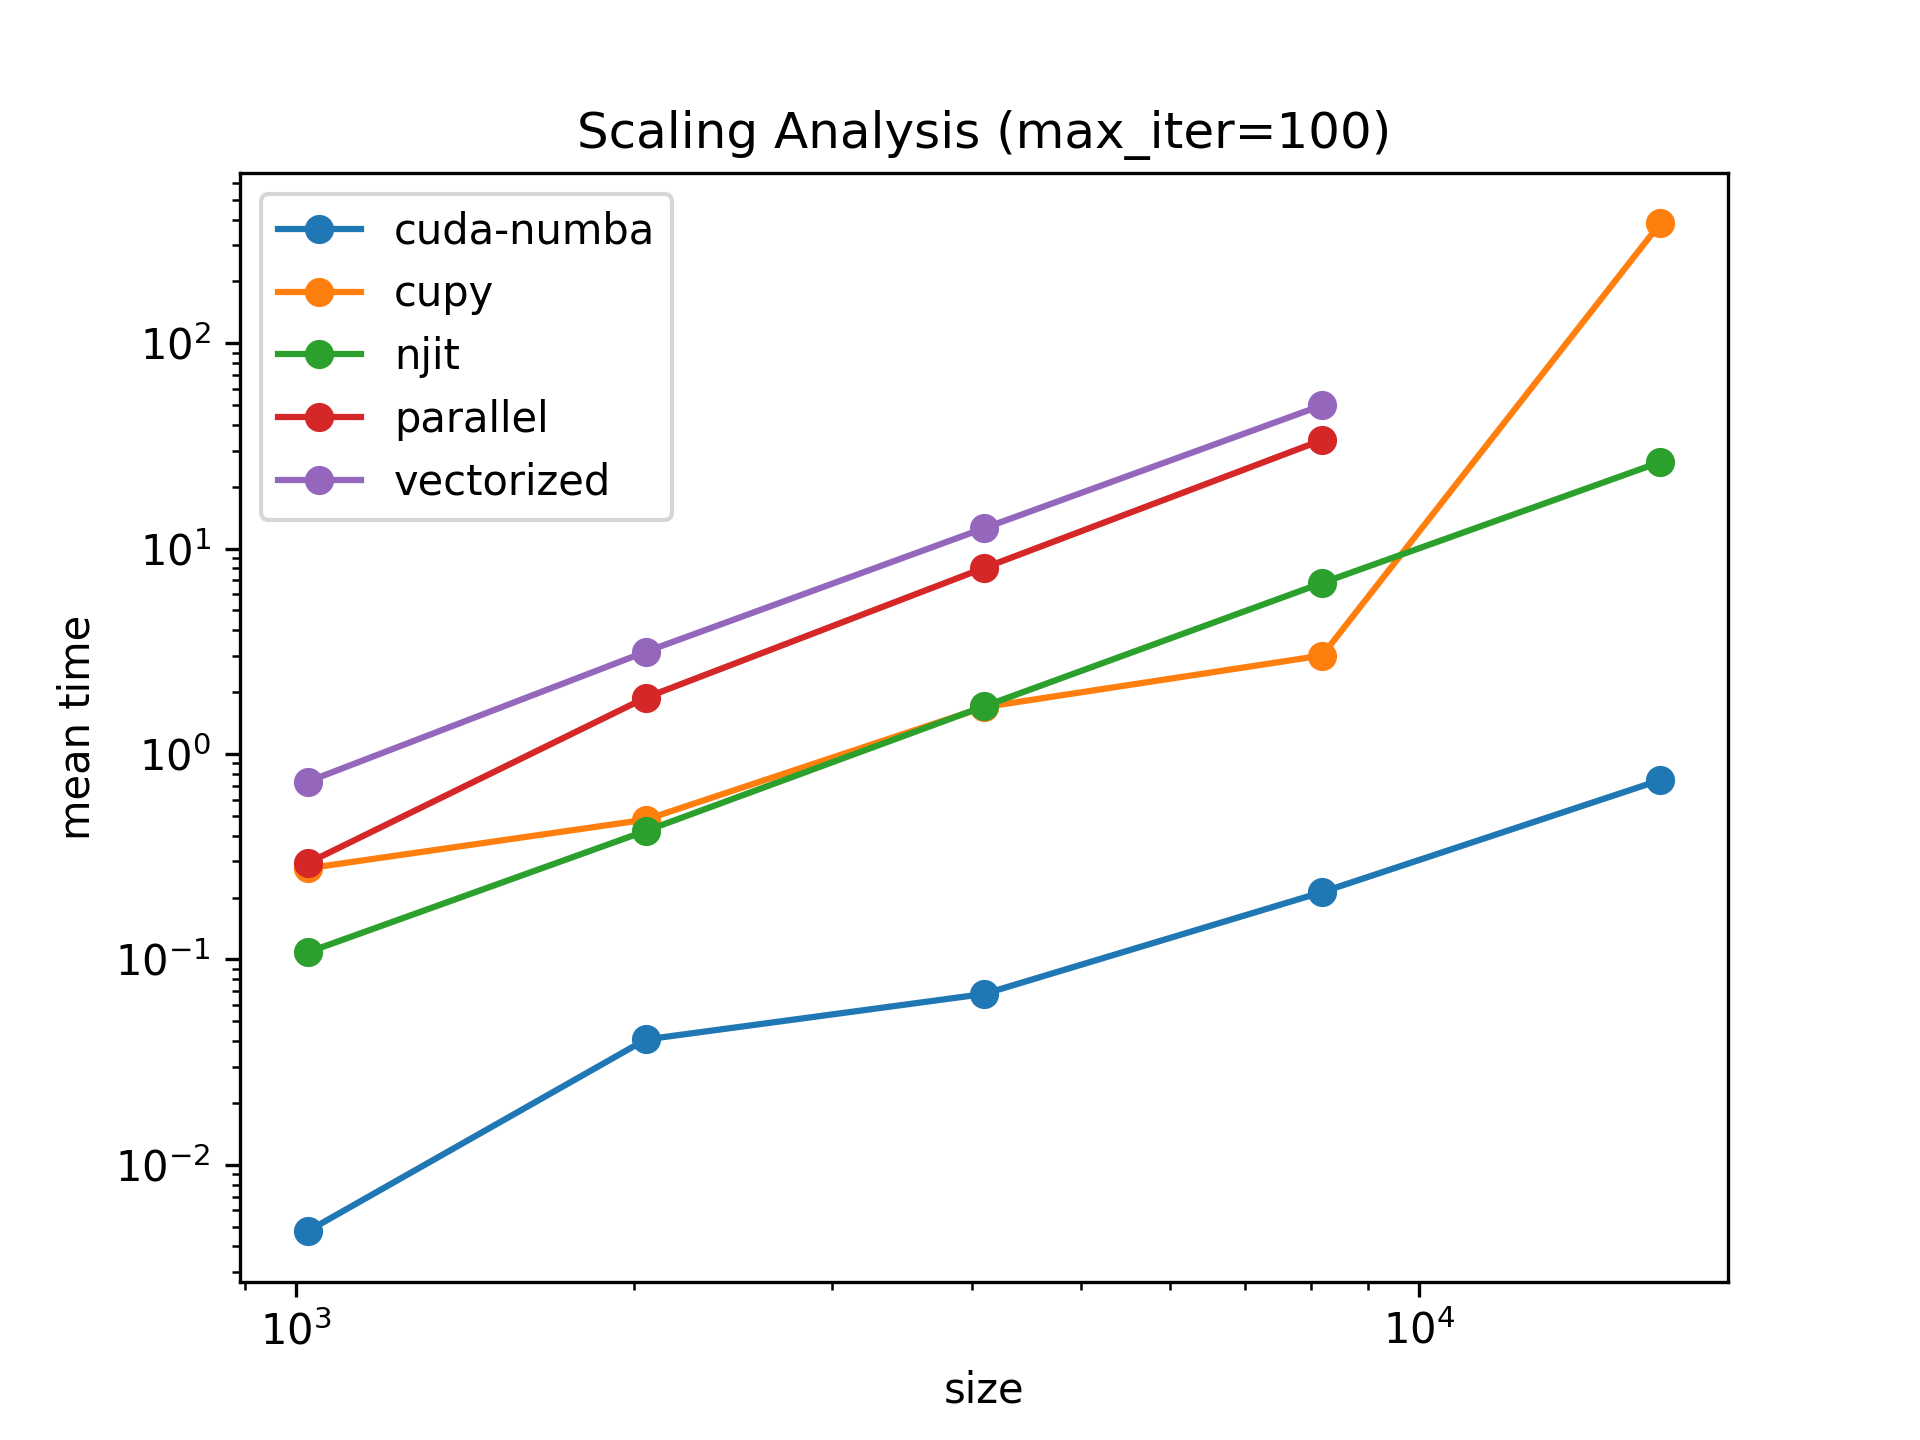
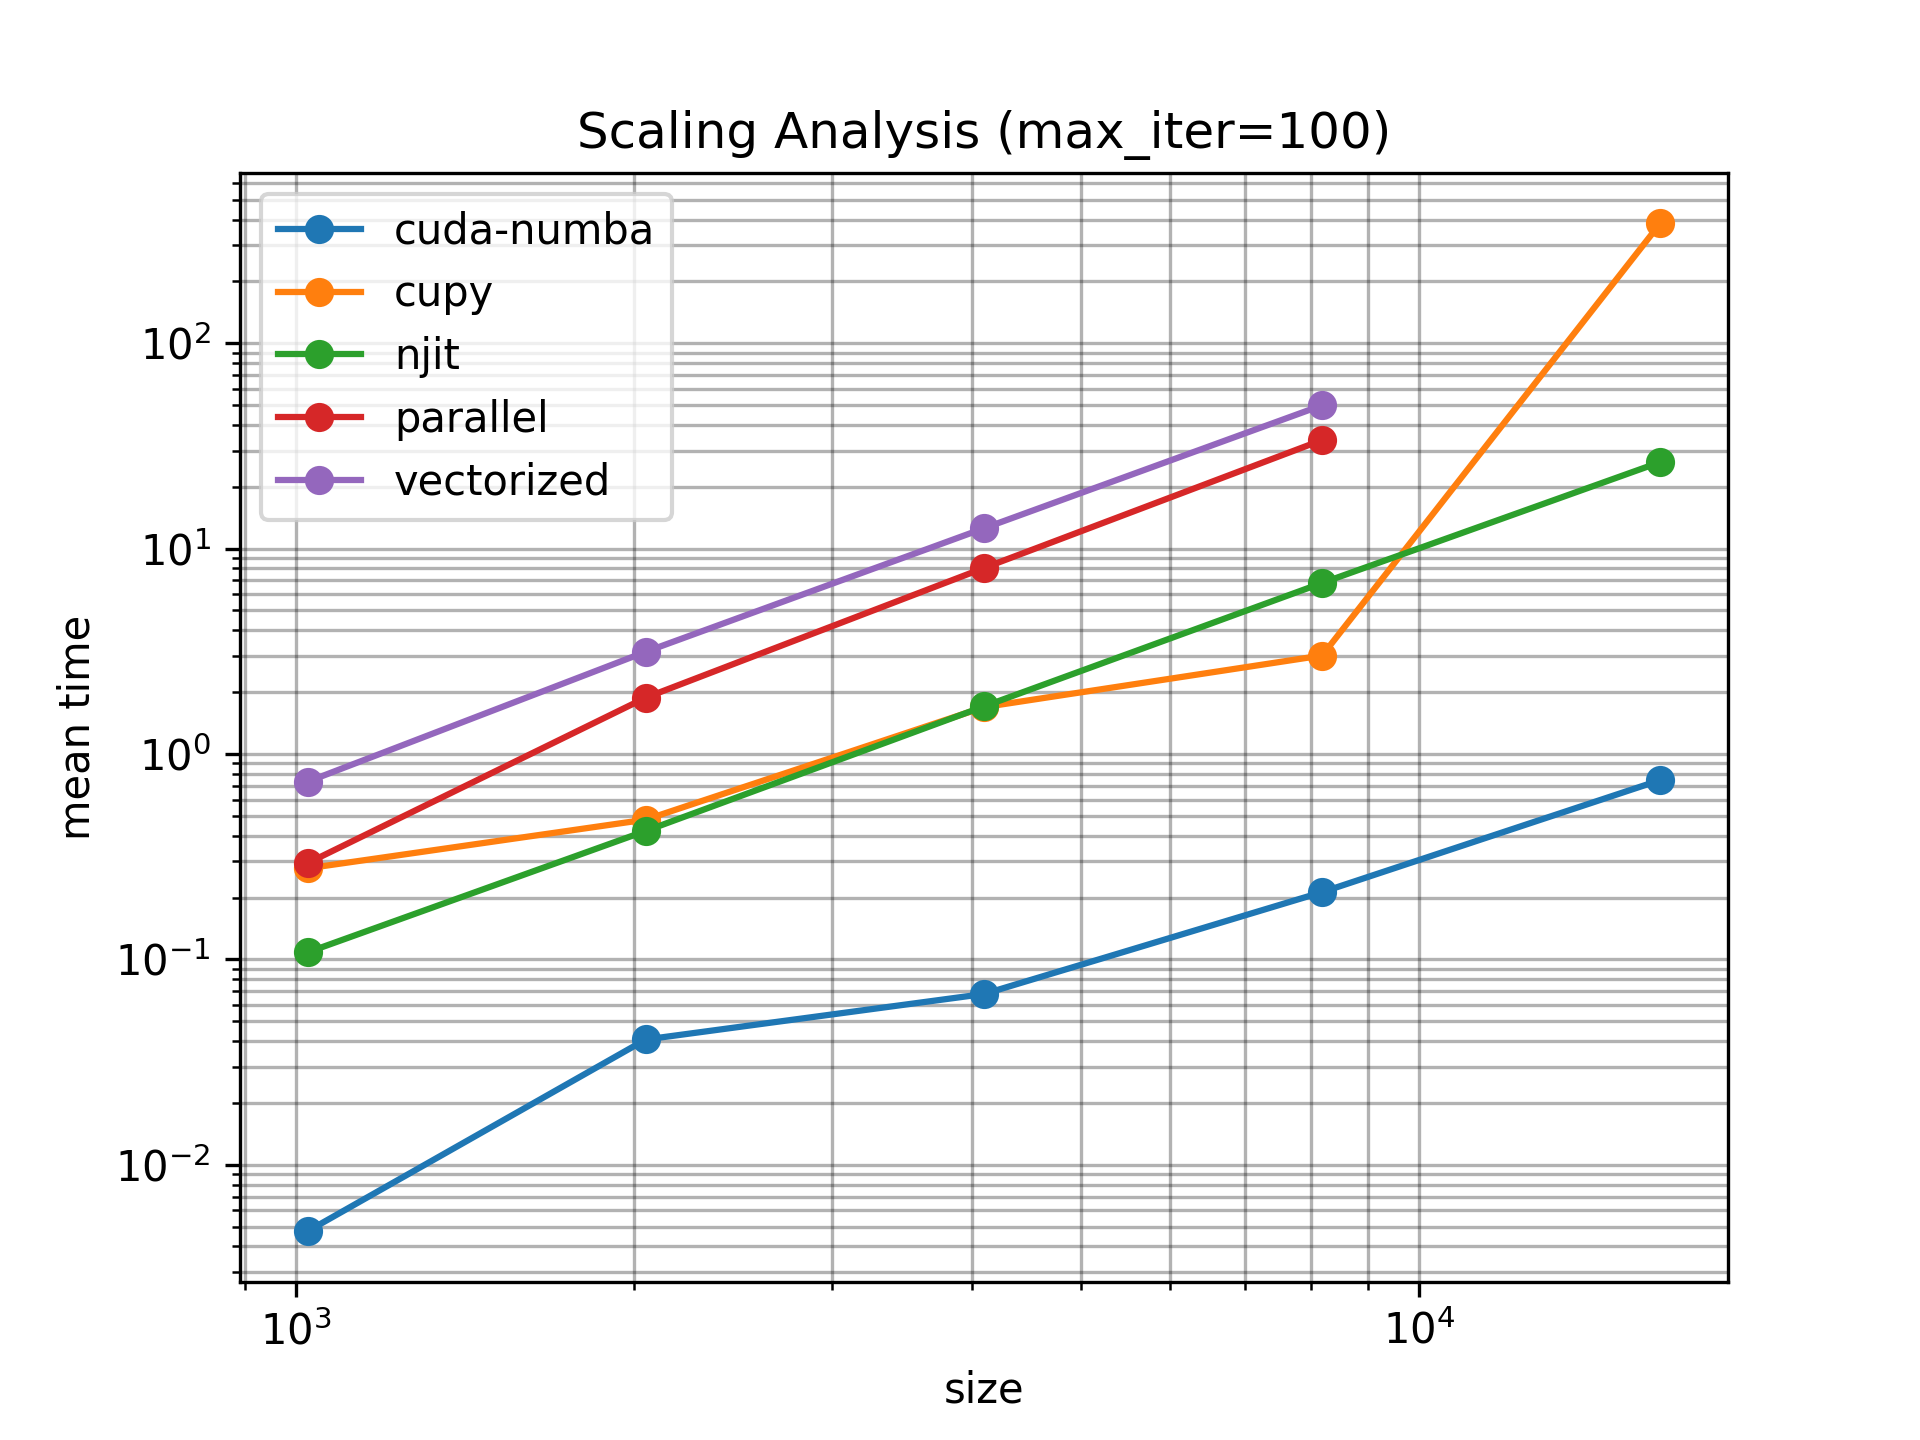
benchmarking tests and adjusted plot for scaling analysis plot

diff --git a/miniproject_3/stat_functions.py b/miniproject_3/stat_functions.py
@@ -1,6 +1,7 @@
 import pandas as pd
 import matplotlib.pyplot as plt
 import os
+import numpy as np
 
 # ---- CONFIG ----
 FILE_PATH = "benchmarks.csv"
@@ -16,6 +17,8 @@ AGGS = ["min", "mean", "max"]
 os.makedirs(OUTPUT_DIR, exist_ok=True)
 
 df = pd.read_csv(FILE_PATH, on_bad_lines="skip")
+
+print(df[df['name'] == 'cupy'])
 
 df[VALUE_COL] = pd.to_numeric(df[VALUE_COL], errors="coerce")
 df[X_COL] = pd.to_numeric(df[X_COL], errors="coerce")
@@ -57,23 +60,20 @@ for max_iter in stats["max_iter"].unique():
 
 # ---- Scaling analysis (log-log) ----
 for max_iter in stats["max_iter"].unique():
-    plt.figure()
-
+    fig, ax = plt.subplots()
     subset_all = stats[stats["max_iter"] == max_iter]
-
     for group in subset_all[GROUP_COL].unique():
         subset = subset_all[subset_all[GROUP_COL] == group].sort_values(X_COL)
-
-        plt.loglog(
+        ax.loglog(
             subset[X_COL],
             subset["mean"],
             marker="o",
             label=group
         )
-
-    plt.xlabel(X_COL)
-    plt.ylabel(f"mean {VALUE_COL}")
-    plt.title(f"Scaling Analysis (max_iter={max_iter})")
-    plt.legend()
+    ax.set_xlabel(X_COL)
+    ax.set_ylabel(f"mean {VALUE_COL}")
+    ax.set_title(f"Scaling Analysis (max_iter={max_iter})")
+    ax.legend()
+    ax.grid(True, which="both", axis="both", linestyle="-", linewidth=0.8, color="black", alpha=0.3)
     plt.savefig(f"{OUTPUT_DIR}/scaling_loglog_iter_{max_iter}.png", dpi=300)
     plt.close()
